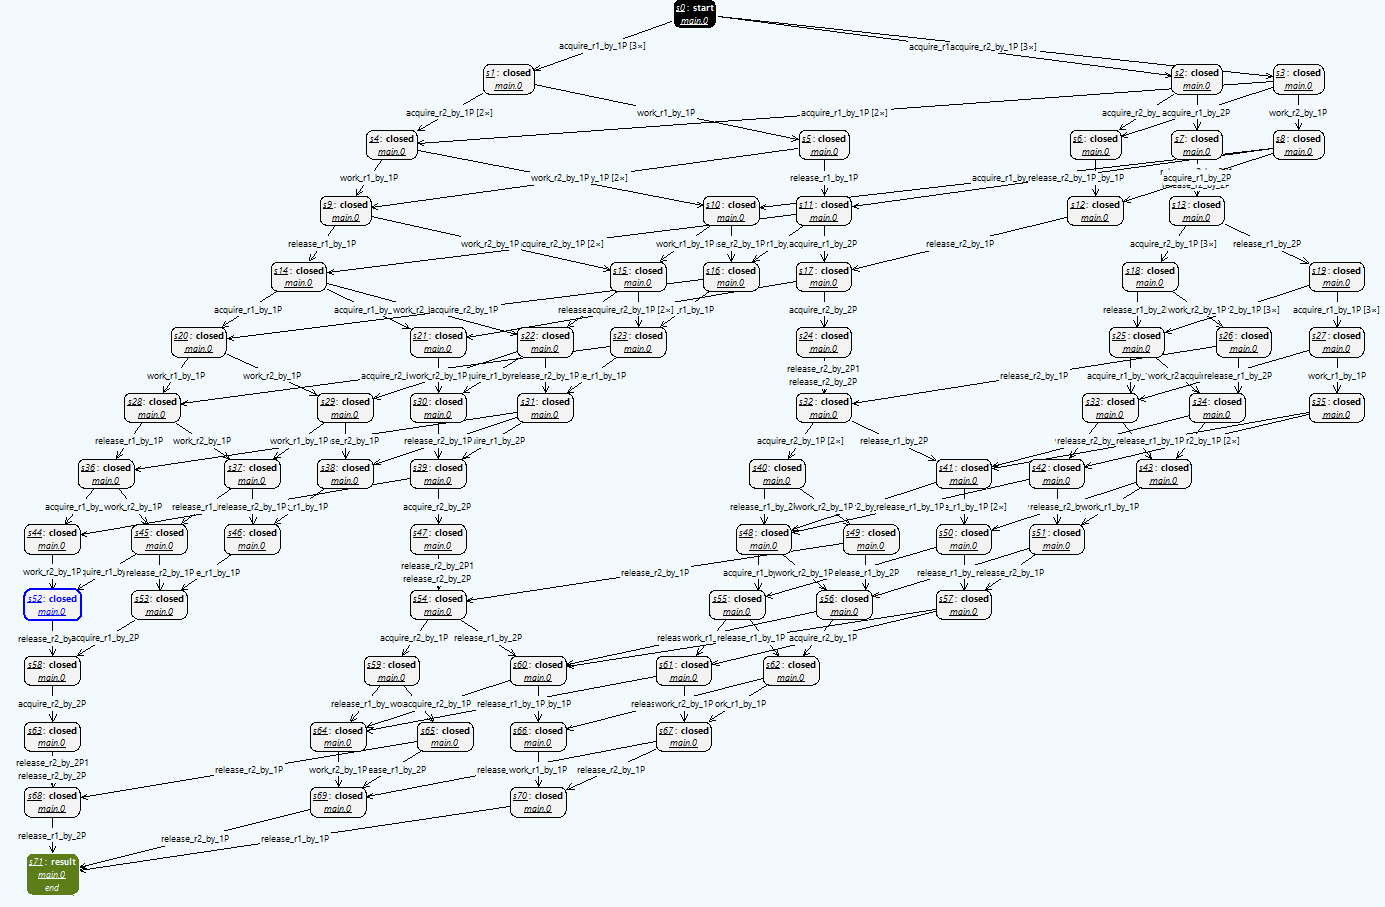
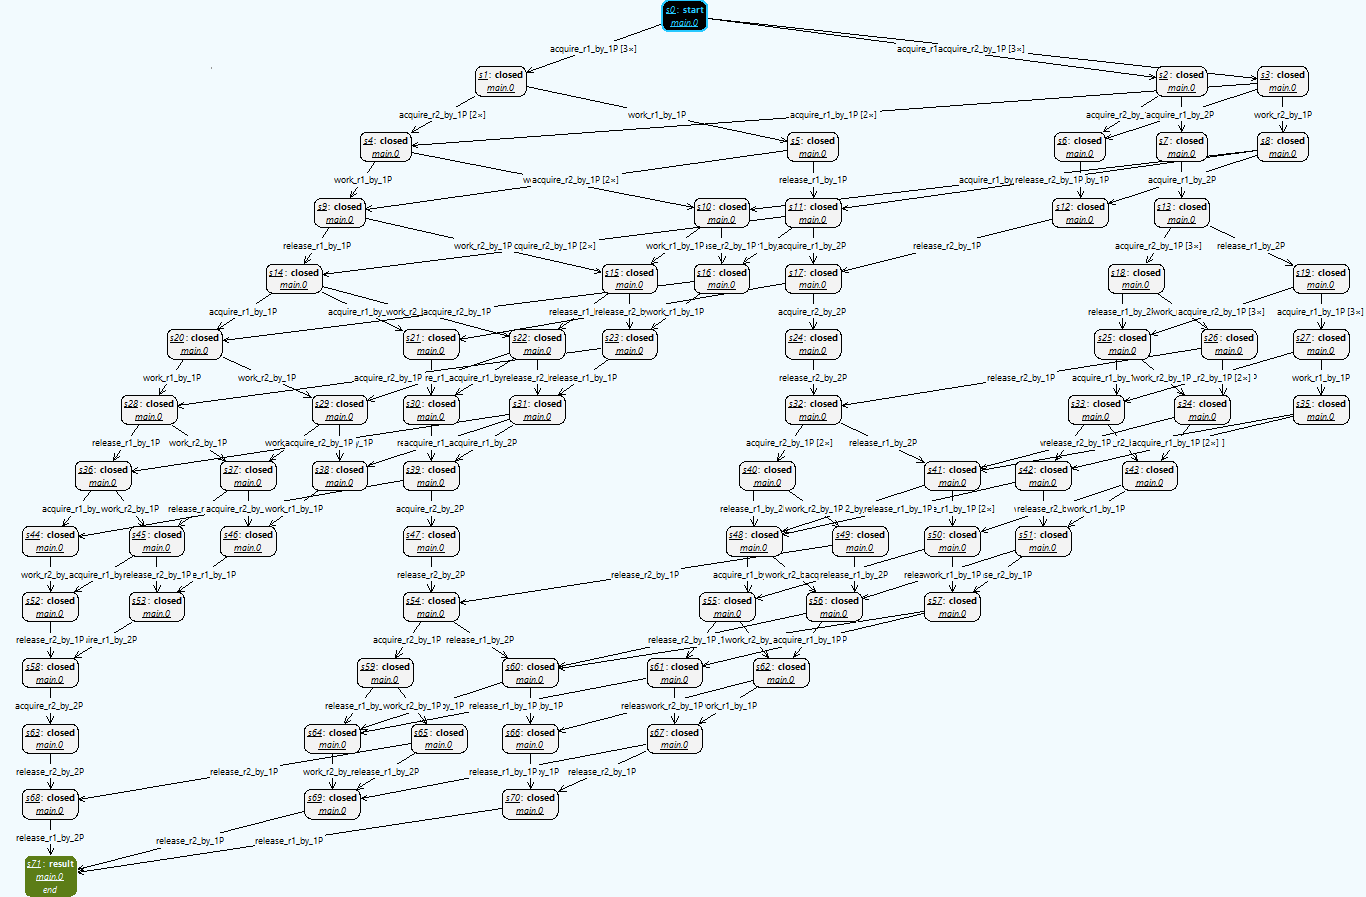
Removed duplicate rule from grammar. This leads to 157 transitions instead of 161 transitions.

diff --git a/example_implementation_groove/README.md b/example_implementation_groove/README.md
@@ -10,7 +10,7 @@ Then load the example by clicking ```File < Open``` and selecting **symposium_ex
 We manually transformed the models from Fig. 2 to graph grammars in Groove as described in section VI.
 
 Using the graph grammar, one can generate the state space using Groove (Consult the Groove demos in the further resources section if needed).
-The following screenshot illustrates the state space (72 States, 161 transitions) generated by Groove.
+The following screenshot illustrates the state space (72 States, 157 transitions) generated by Groove.
 
 ![Screenshot state space](https://raw.githubusercontent.com/timKraeuter/MODELS-2021-Doctoral-Symposium/main/example_implementation_groove/screenshots/statespace.png)
 
